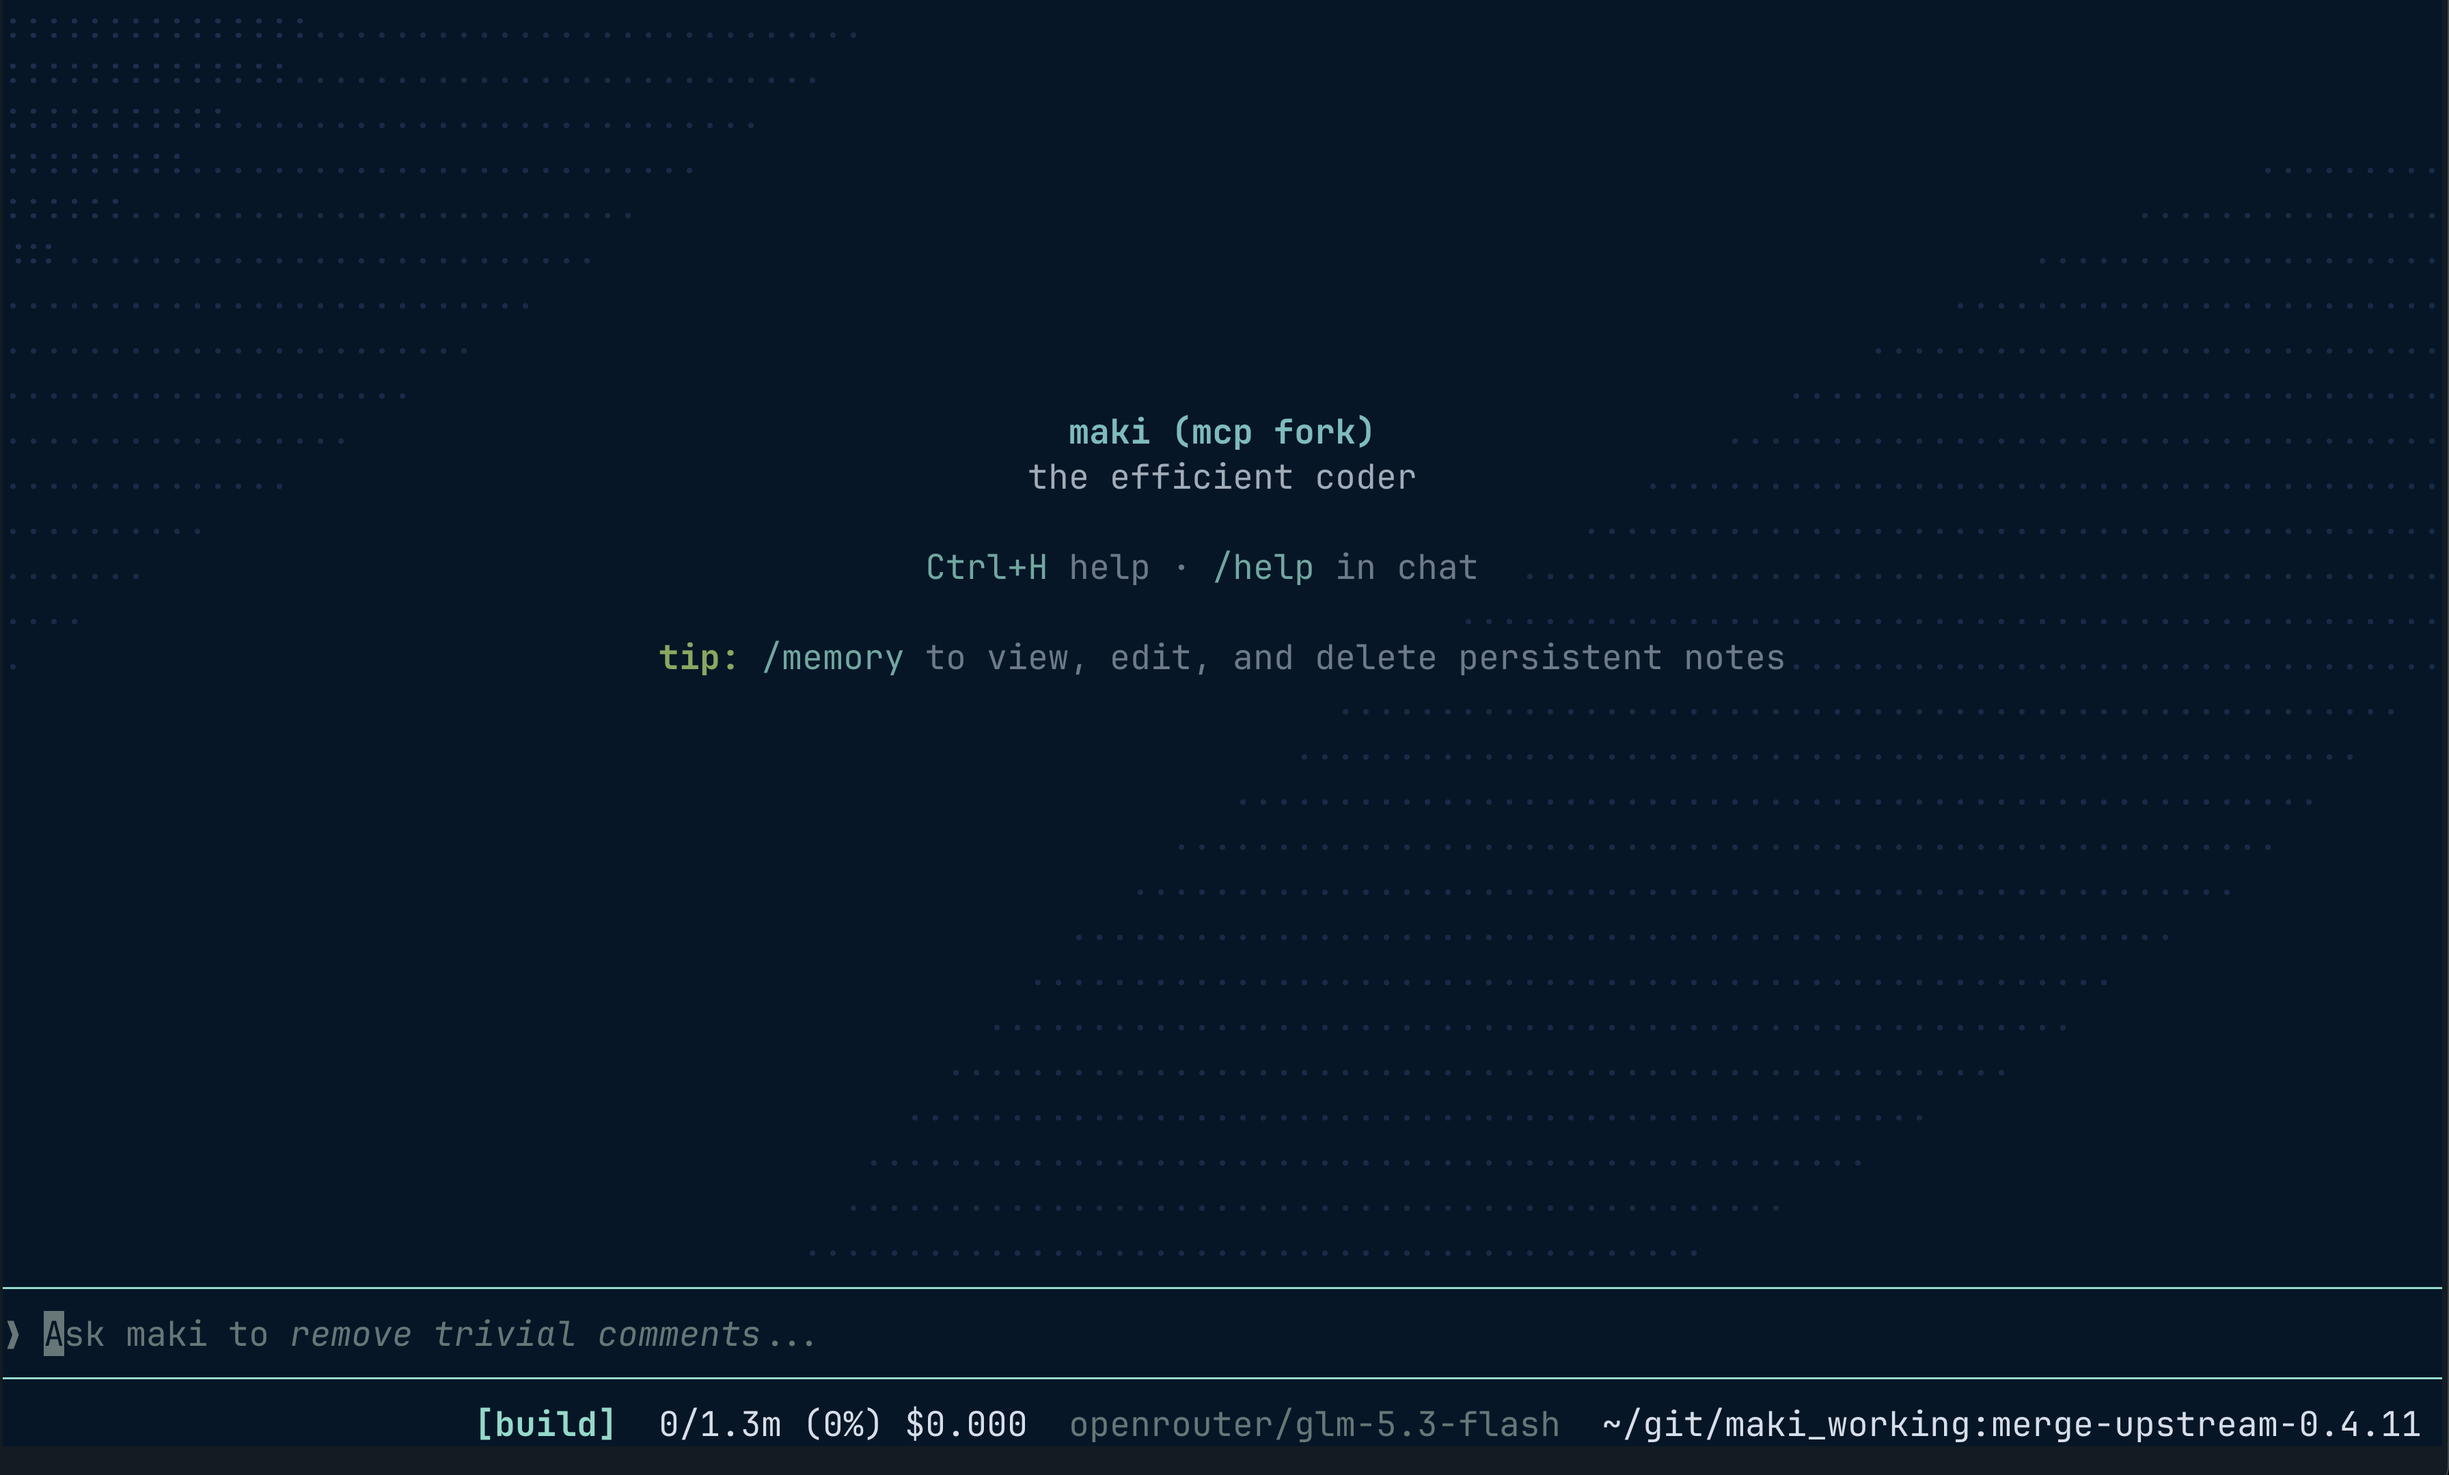
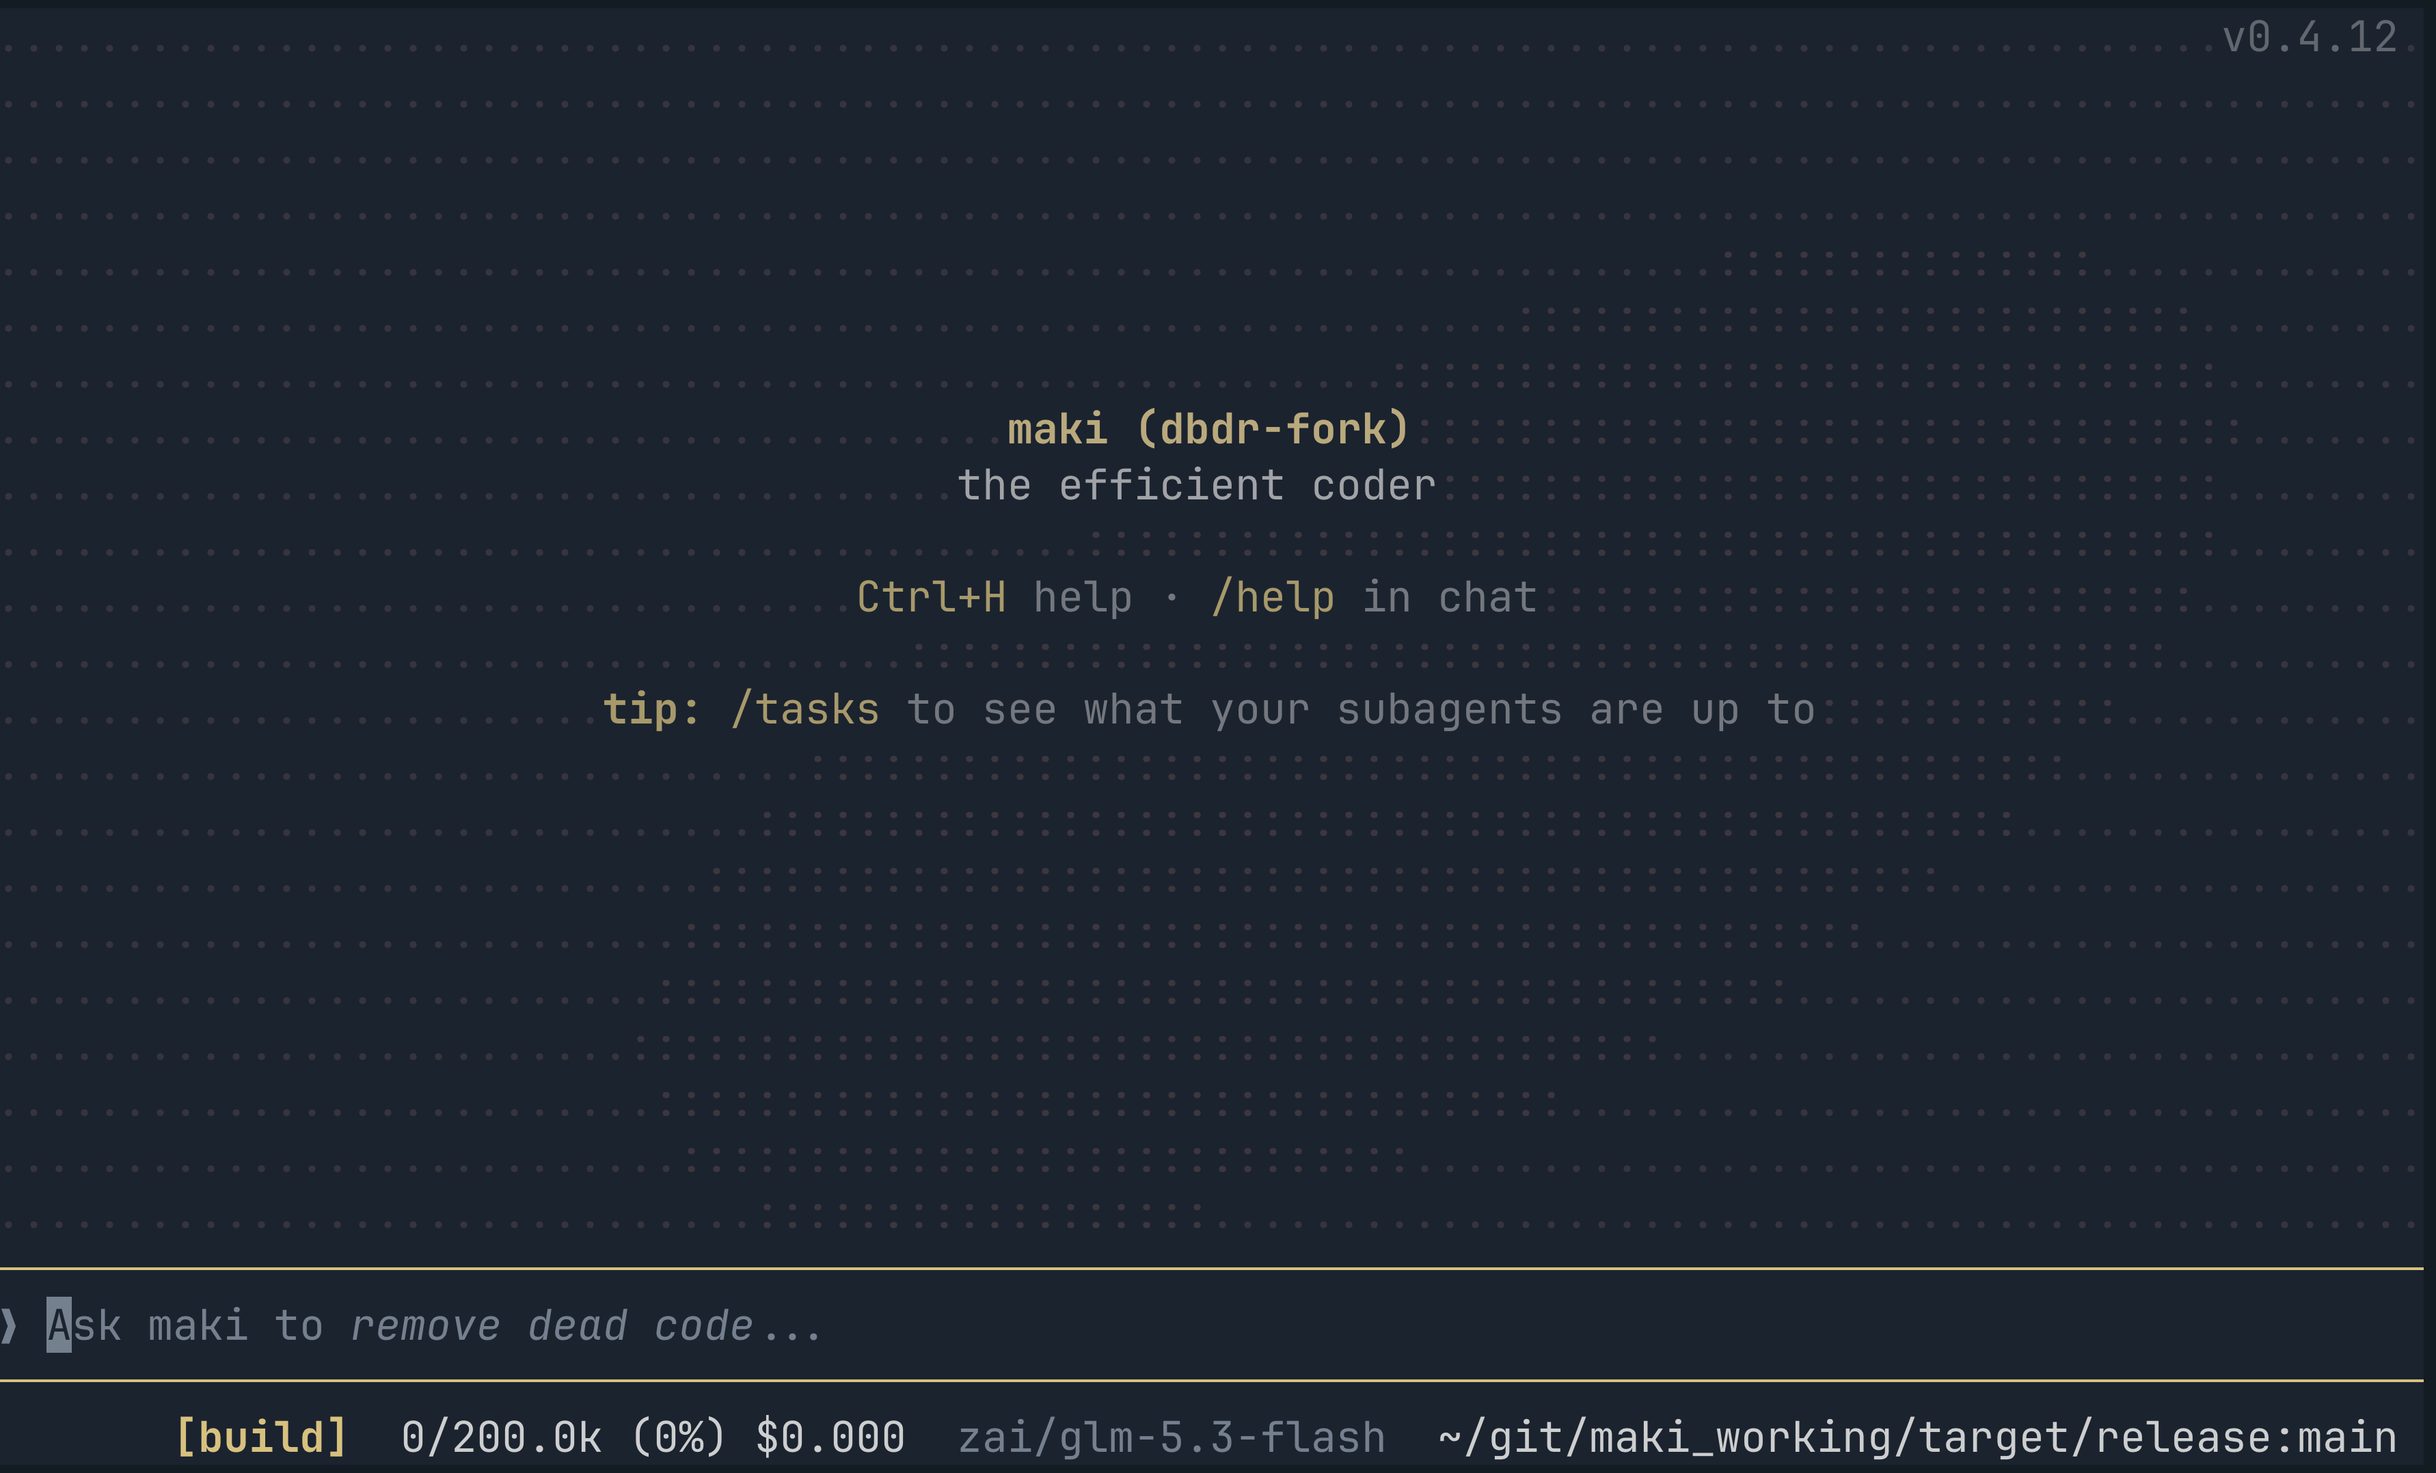
update landing.png

diff --git a/maki-ui/src/terminal.rs b/maki-ui/src/terminal.rs
@@ -9,10 +9,11 @@ use crossterm::Command;
 use crossterm::ExecutableCommand;
 use crossterm::clipboard::CopyToClipboard;
 use crossterm::event::{
-    DisableBracketedPaste, DisableFocusChange, DisableMouseCapture, EnableBracketedPaste,
-    EnableFocusChange, EnableMouseCapture, KeyboardEnhancementFlags, PopKeyboardEnhancementFlags,
-    PushKeyboardEnhancementFlags,
+    DisableBracketedPaste, DisableMouseCapture, EnableBracketedPaste, EnableMouseCapture,
+    KeyboardEnhancementFlags, PopKeyboardEnhancementFlags, PushKeyboardEnhancementFlags,
 };
+#[cfg(not(windows))]
+use crossterm::event::{DisableFocusChange, EnableFocusChange};
 use crossterm::terminal::{self, EnterAlternateScreen, LeaveAlternateScreen};
 use maki_config::NotificationMethod;
 
